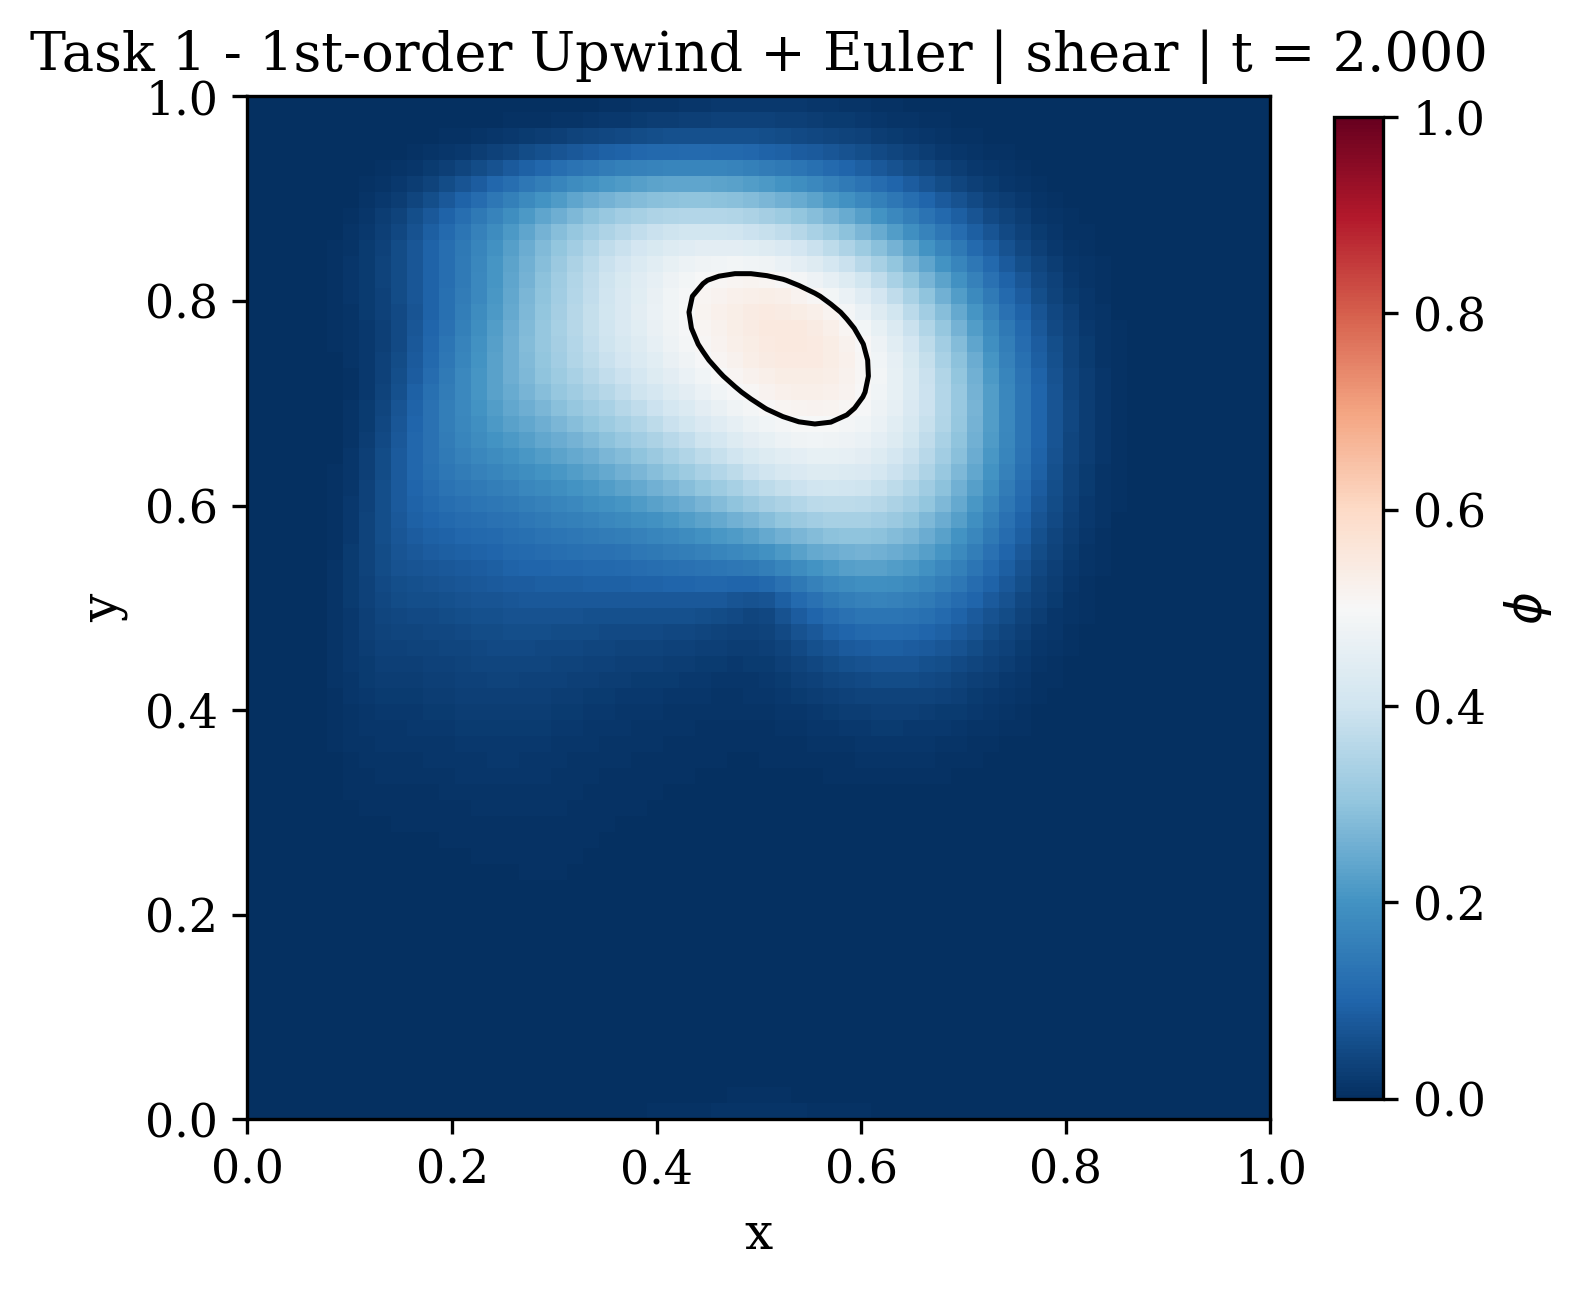
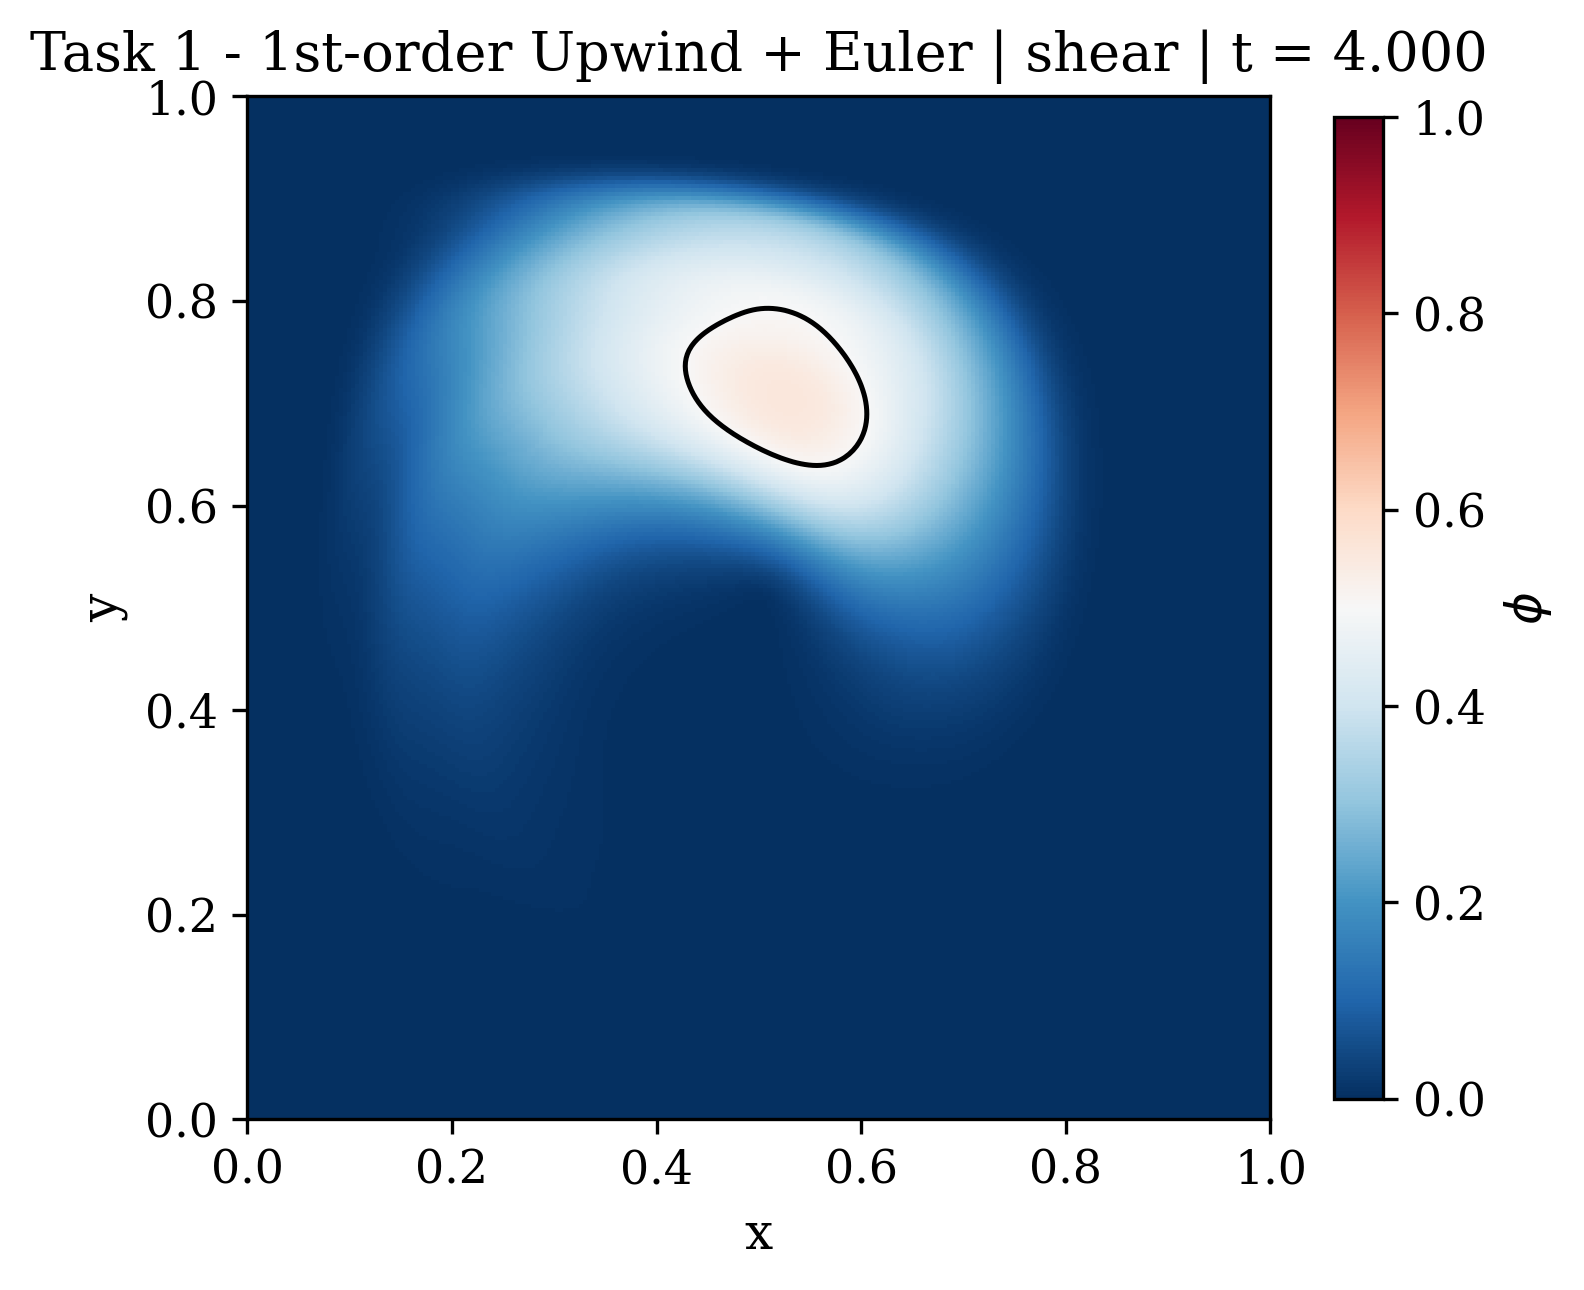
fix buggggg

diff --git a/src/config.py b/src/config.py
@@ -45,8 +45,8 @@ RESULTS_ROOT = os.path.join(PROJECT_ROOT, "results")
 # ---------------------------------------------------------------------------
 
 DEFAULT_MESH_CFG: dict = {
-    "nx": 50,       # cells in x-direction
-    "ny": 50,       # cells in y-direction
+    "nx": 256,       # cells in x-direction
+    "ny": 256,       # cells in y-direction
     "Lx": 1.0,       # domain length in x
     "Ly": 1.0,       # domain length in y
     "x0": 0.0,       # domain origin x
@@ -81,7 +81,7 @@ EPS_FACTOR: float = 1  # interface half-thickness in units of dx
 
 DEFAULT_SOLVER_CFG: dict = {
     "CFL_target": 0.4,    # target CFL for adaptive dt (not used if dt given)
-    "save_freq": 10,      # save every N time steps
+    "save_freq": 60,      # save every N time steps
 }
 
 # ---------------------------------------------------------------------------
@@ -104,8 +104,8 @@ DROP_ADVECTION_CFG: dict = {
 SHEAR_FLOW_CFG: dict = {
     "test_case": "shear_flow",
     "velocity": "shear",
-    "T_period": 2.0,      # oscillation period (paper used 4)
-    "t_end": 2.0,         # run for one full period
+    "T_period": 4.0,      # oscillation period (paper used 4)
+    "t_end": 4.0,         # run for one full period
     "dt": 2.5e-4 ,        # aiming cfl ~ 0.25
 }
 

diff --git a/src/core/velocity_fields.py b/src/core/velocity_fields.py
@@ -95,12 +95,12 @@ def shear_flow_velocity(
     xf = mesh.x0 + np.arange(mesh.nx + 1) * mesh.dx          # (nx+1,)
     yc = mesh.yc                                                # (ny,)
     XF, YF = np.meshgrid(xf, yc, indexing='xy')                # (ny, nx+1)
-    u_face = np.sin(np.pi * XF)**2 * np.sin(2.0 * np.pi * YF) * cos_t
+    u_face = -np.sin(np.pi * XF)**2 * np.sin(2.0 * np.pi * YF) * cos_t
 
     # y-faces: located at x = xc[i], y = y0 + j*dy  (cell-centre x)
     xc = mesh.xc                                                # (nx,)
     yf = mesh.y0 + np.arange(mesh.ny + 1) * mesh.dy            # (ny+1,)
     XF2, YF2 = np.meshgrid(xc, yf, indexing='xy')              # (ny+1, nx)
-    v_face = -np.sin(2.0 * np.pi * XF2) * np.sin(np.pi * YF2)**2 * cos_t
+    v_face = np.sin(2.0 * np.pi * XF2) * np.sin(np.pi * YF2)**2 * cos_t
 
     return u_face, v_face

diff --git a/src/core/regularization.py b/src/core/regularization.py
@@ -179,10 +179,6 @@ def acdi_regularization(
     dpsi_dx_cc = (np.roll(psi, -1, axis=1) - np.roll(psi, 1, axis=1)) / (2.0 * dx)
     dpsi_dy_cc = (np.roll(psi, -1, axis=0) - np.roll(psi, 1, axis=0)) / (2.0 * dy)
 
-    # Cell-centre gradients of phi (for diffusion term)
-    dphi_dx_cc = (np.roll(phi, -1, axis=1) - np.roll(phi, 1, axis=1)) / (2.0 * dx)
-    dphi_dy_cc = (np.roll(phi, -1, axis=0) - np.roll(phi, 1, axis=0)) / (2.0 * dy)
-
     # --- x-faces ---
     Ax = np.empty((ny_c, nx_c + 1))
     for i in range(nx_c + 1):

diff --git a/src/postprocessing/plotting.py b/src/postprocessing/plotting.py
@@ -261,7 +261,7 @@ def animate_phi(
     t_history: list[float],
     mesh: Mesh,
     save_path: str,
-    fps: int = 10,
+    fps: int = 30,
     cmap: str = "RdBu_r",
 ) -> FuncAnimation:
     """Create and save an animation of the phi field evolving in time.
